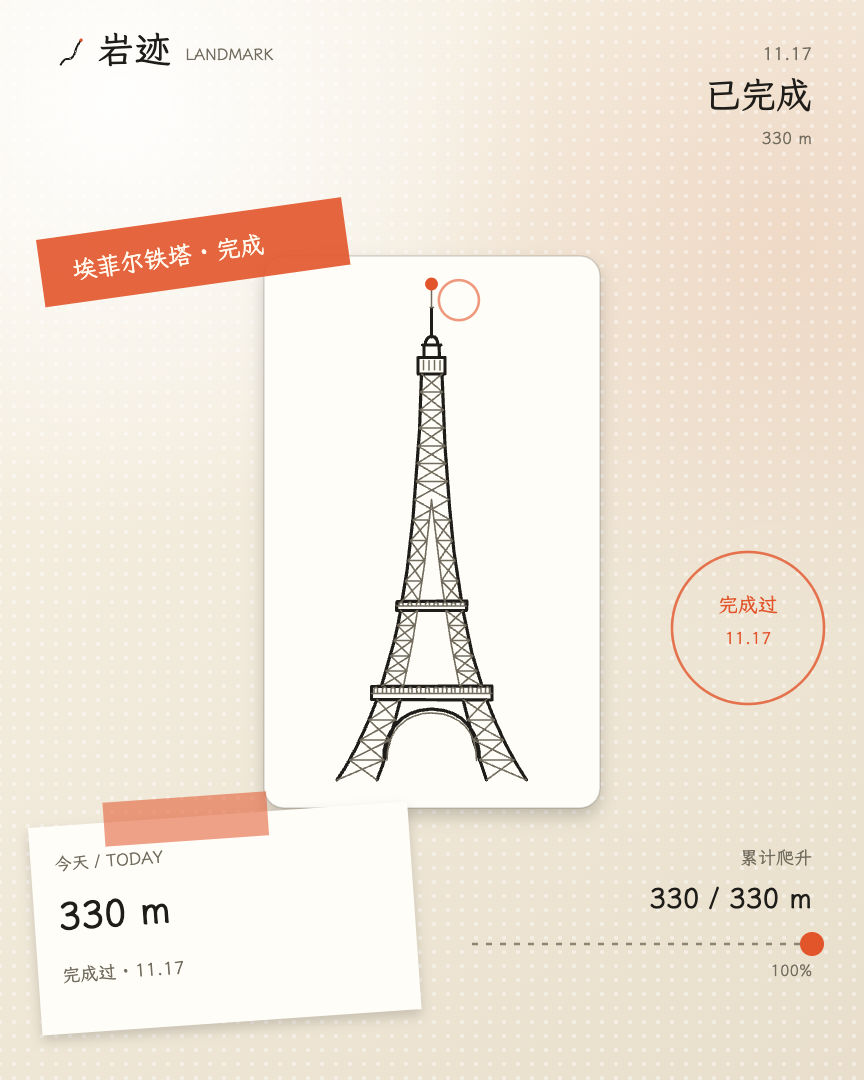
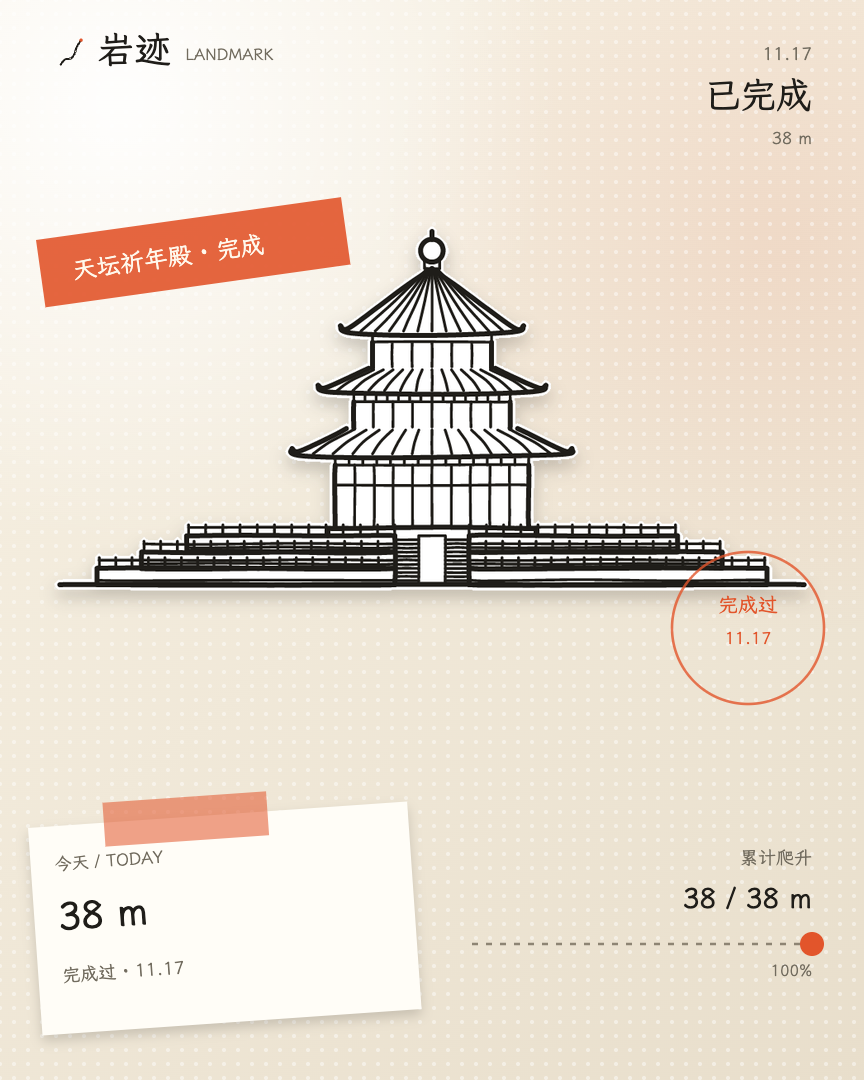
建筑贴纸自适应宽高比，去掉固定白卡留白
- 天坛/悉尼这类宽矮建筑：按原图宽高比铺满宽度，不再困在竖卡里
- 埃菲尔/台北 101 这类细高建筑：按高度收窄，不再硬撑白卡
- 山和建筑共用自适应贴纸绘制；已完成时去掉多余的箭头小圈
- 建筑样张换成天坛；产品文档同步

diff --git a/shengji-prototype.html b/shengji-prototype.html
@@ -1878,24 +1878,15 @@ async function drawSticker(ctx,D){
   const mountBrandW=sBrand(ctx,26,16,20,SHARE_INK,SHARE_ACC,'#F5EEDF');
   sText(ctx,D.kindLabel||'SUMMIT',26+mountBrandW+7,30,8,SHARE_MUTED);
   sText(ctx,D.date,406,30,9,SHARE_MUTED,'right');
-  let dx=(W-380)/2,dy=160,dw=380,dh=150;
-  if(D.kind==='b'){
-    // 建筑做成竖着的白色贴纸卡，不硬套山形，也不至于细成一根针
-    const bw=168,bh=276;dx=(W-bw)/2;dy=128;dw=bw;dh=bh;
-    ctx.save();ctx.shadowColor='rgba(31,29,25,.22)';ctx.shadowBlur=16;ctx.shadowOffsetY=8;sRound(ctx,dx,dy,bw,bh,10);ctx.fillStyle='#FFFDF7';ctx.fill();ctx.restore();
-    ctx.save();sRound(ctx,dx,dy,bw,bh,10);ctx.strokeStyle='rgba(31,29,25,.16)';ctx.lineWidth=.8;ctx.stroke();ctx.restore();
-    const A=artOf(D.name),aw=Math.max(1,A.w||100),ah=100,sy=Math.min((bw-26)/aw,(bh-26)/ah),ox=dx+(bw-aw*sy)/2,oy=dy+bh-14-ah*sy;
-    ctx.save();ctx.beginPath();ctx.rect(dx+8,dy+8,bw-16,bh-16);ctx.clip();
-    ctx.translate(ox,oy);ctx.scale(sy,sy);ctx.strokeStyle=SHARE_INK;ctx.lineWidth=1.6/sy;ctx.lineCap='round';ctx.lineJoin='round';ctx.stroke(new Path2D(A.d));
-    if(A.d2){ctx.strokeStyle=SHARE_MUTED;ctx.lineWidth=.8/sy;ctx.stroke(new Path2D(A.d2))}ctx.restore();
-    ctx.beginPath();ctx.arc(ox+(A.ax||aw/2)*sy,oy+2,3.2,0,7);ctx.fillStyle=SHARE_ACC;ctx.fill();
-  } else {
+  // 贴纸自适应：山/建筑都按原图宽高比缩放，不留固定白卡的空白
+  const isB=D.kind==='b',maxW=380,maxH=isB?232:192,topY=isB?112:160;
   let img=null;try{img=await shareLoadImg('brand/share/sticker-'+D.num+'.png')}catch(e){}
-  const maxW=380,maxH=192;if(img){const sc=Math.min(maxW/img.width,maxH/img.height);dw=img.width*sc;dh=img.height*sc;dx=(W-dw)/2;dy=160}
+  let dw=maxW,dh=isB?maxH*.75:150,dx=(W-dw)/2,dy=topY;
+  if(img){const sc=Math.min(maxW/img.width,maxH/img.height);dw=img.width*sc;dh=img.height*sc;dx=(W-dw)/2;dy=topY}
   function hasInk(im){try{const w=Math.min(260,im.width),h=Math.max(1,Math.round(im.height*w/im.width)),cv=document.createElement('canvas');cv.width=w;cv.height=h;const c=cv.getContext('2d');c.drawImage(im,0,0,w,h);const d=c.getImageData(0,0,w,h).data;let n=0;for(let i=0;i<d.length;i+=4){if(d[i+3]>100&&d[i]<110&&d[i+1]<110&&d[i+2]<110)n++}return n>18}catch(e){return false}}
   if(img&&hasInk(img)){ctx.save();ctx.shadowColor='rgba(31,29,25,.22)';ctx.shadowBlur=16;ctx.shadowOffsetY=8;ctx.drawImage(img,dx,dy,dw,dh);ctx.restore()}
   else{
-    const asp=D.asp||3.5;if(!img){dh=dw/asp;if(dh>192){dh=192;dw=dh*asp;dx=(W-dw)/2}}
+    const asp=D.asp||3.5;if(!img){dh=dw/asp;if(dh>maxH){dh=maxH;dw=dh*asp;dx=(W-dw)/2}}
     const poly=D.poly||[[0,1],[.2,.3],[.42,.55],[.62,.12],[.82,.5],[1,1]];
     const mk=()=>{ctx.beginPath();poly.forEach((p,i)=>{const x=dx+p[0]*dw,y=dy+p[1]*dh;i?ctx.lineTo(x,y):ctx.moveTo(x,y)});ctx.closePath()};
     ctx.save();ctx.shadowColor='rgba(31,29,25,.22)';ctx.shadowBlur=16;ctx.shadowOffsetY=8;mk();ctx.fillStyle='#FFFDF7';ctx.fill();ctx.restore();
@@ -1907,7 +1898,6 @@ async function drawSticker(ctx,D){
     ctx.restore();
     ctx.beginPath();ctx.arc(ox+(A.ax||aw/2)*sy,oy+2,3.2,0,7);ctx.fillStyle=SHARE_ACC;ctx.fill();
   }
-  }
   // 橙色胶带标题
   ctx.save();ctx.translate(18,120);ctx.rotate(-8*Math.PI/180);ctx.fillStyle='rgba(226,85,43,.9)';ctx.fillRect(0,0,154,34);sText(ctx,D.tapeLabel,16,22,12,'#FFF8EC');ctx.restore();
   const cardDone=D.left<=0;
@@ -1916,7 +1906,7 @@ async function drawSticker(ctx,D){
   // 虚线和箭头
   const peakX=dx+dw*.58,peakY=dy+dh*.08;
   if(!cardDone){ctx.save();ctx.strokeStyle=SHARE_ACC;ctx.lineWidth=1.4;ctx.setLineDash([4,5]);ctx.beginPath();ctx.moveTo(342,96);ctx.quadraticCurveTo(332,140,peakX+8,peakY+8);ctx.stroke();ctx.restore()}
-  else{ctx.save();ctx.strokeStyle='rgba(226,85,43,.6)';ctx.lineWidth=1.3;ctx.beginPath();ctx.arc(peakX,peakY,10,0,7);ctx.stroke();ctx.restore()}
+  /* 已完成时不再画箭头/小圈，避免指到奇怪的位置 */
   // 印章
   ctx.save();ctx.strokeStyle='rgba(226,85,43,.8)';ctx.lineWidth=1.3;ctx.beginPath();ctx.arc(374,314,38,0,7);ctx.stroke();sText(ctx,D.stampTop,374,306,10,SHARE_ACC,'center');sText(ctx,D.date,374,322,8.5,SHARE_ACC,'center');ctx.restore();
   // 小纸条

diff --git a/产品文档.md b/产品文档.md
@@ -493,7 +493,7 @@ data = {
 | v0.3.8 | 2026-11-16 | 去掉「原色」选项：新建线默认沿用上次颜色（首次红色），颜色格只保留 10 色 |
 | v0.3.9 | 2026-11-16 | 品牌标志草案：刻痕（四道竖痕 + 橙斜杠，内部尝试，未采用） |
 | v0.3.10 | 2026-11-16 | 品牌标志定为「一条线路」：柔和 S 形线路 + 两个镂空岩点 + 到顶橙点；app icon / favicon / lockup / 品牌板 / 首页接入 |
-| v0.4.0 | 2026-11-17 | 分享卡：今天小票 / 单条线胶带条 / 当前目标贴纸（山用山形剪影，建筑用竖版贴纸卡）；三个入口、一张入口一张卡；Canvas 2D 导出 PNG，三张都带 logo；29 个山峰/建筑都支持 |
+| v0.4.0 | 2026-11-17 | 分享卡：今天小票 / 单条线胶带条 / 当前目标贴纸（山用山形剪影，建筑用自适应剪影贴纸（按原图宽高比缩放））；三个入口、一张入口一张卡；Canvas 2D 导出 PNG，三张都带 logo；29 个山峰/建筑都支持 |
 
 ---
 
@@ -547,7 +547,7 @@ data = {
 - **入口**：今天（或回看的某天）右上「分享」→ 小票；线路详情右上「分享」→ 胶带条；山页右上「分享」→ 山形贴纸（山）/ 建筑贴纸（建筑）。一个入口只给一种卡，不弹格式选择；以后要加格式再加。
 - **小票**：日期/岩馆、线路数/攀爬次数/爬升、完攀数、最高级别、级别分布柱状、一句事实结论、本周第几次/第几次。不做逐条流水。
 - **胶带条**：线路名/级别/墙高/岩馆、第几次/跨多少天、尝试点、今天是否完攀、方式次数、手绘线路、日期。
-- **山形/建筑贴纸**：暖纸磨砂底 + 当前目标（山用山页原图抠出的山形剪影；建筑用竖版白色贴纸卡 + 山页线稿）+ 还差多少/累计/第几位；数据散在贴纸周围，不做整齐底栏。
+- **山形/建筑贴纸**：暖纸磨砂底 + 当前目标（山用山页原图抠出的山形剪影；建筑用自适应剪影贴纸（按原图宽高比缩放））+ 还差多少/累计/第几位；数据散在贴纸周围，不做整齐底栏。
 - **数据口径**：只写事实，不做排名、百分位、他人比较；不写“提升/退步”。
 - **技术**：Canvas 2D 渲染，2x PNG；保存图片 / Web Share；三张卡都带「岩迹」标志（线路符号 + 字标）；贴纸资产在 `brand/share/sticker-<n>.png`（29 个山峰/建筑），随山页当前目标切换；山显示 SUMMIT/第 N 座，建筑显示 LANDMARK/第 N 个。
 - **兜底**：山形贴纸优先用 `brand/share/sticker-<n>.png`；图片读不到或被浏览器拦时，用内嵌的透明剪影多边形 + 山页同一份线稿重画，所以本地 `file://` 打开也有山、也能导出。透明贴纸单独导出、更多卡片格式后续再加。
